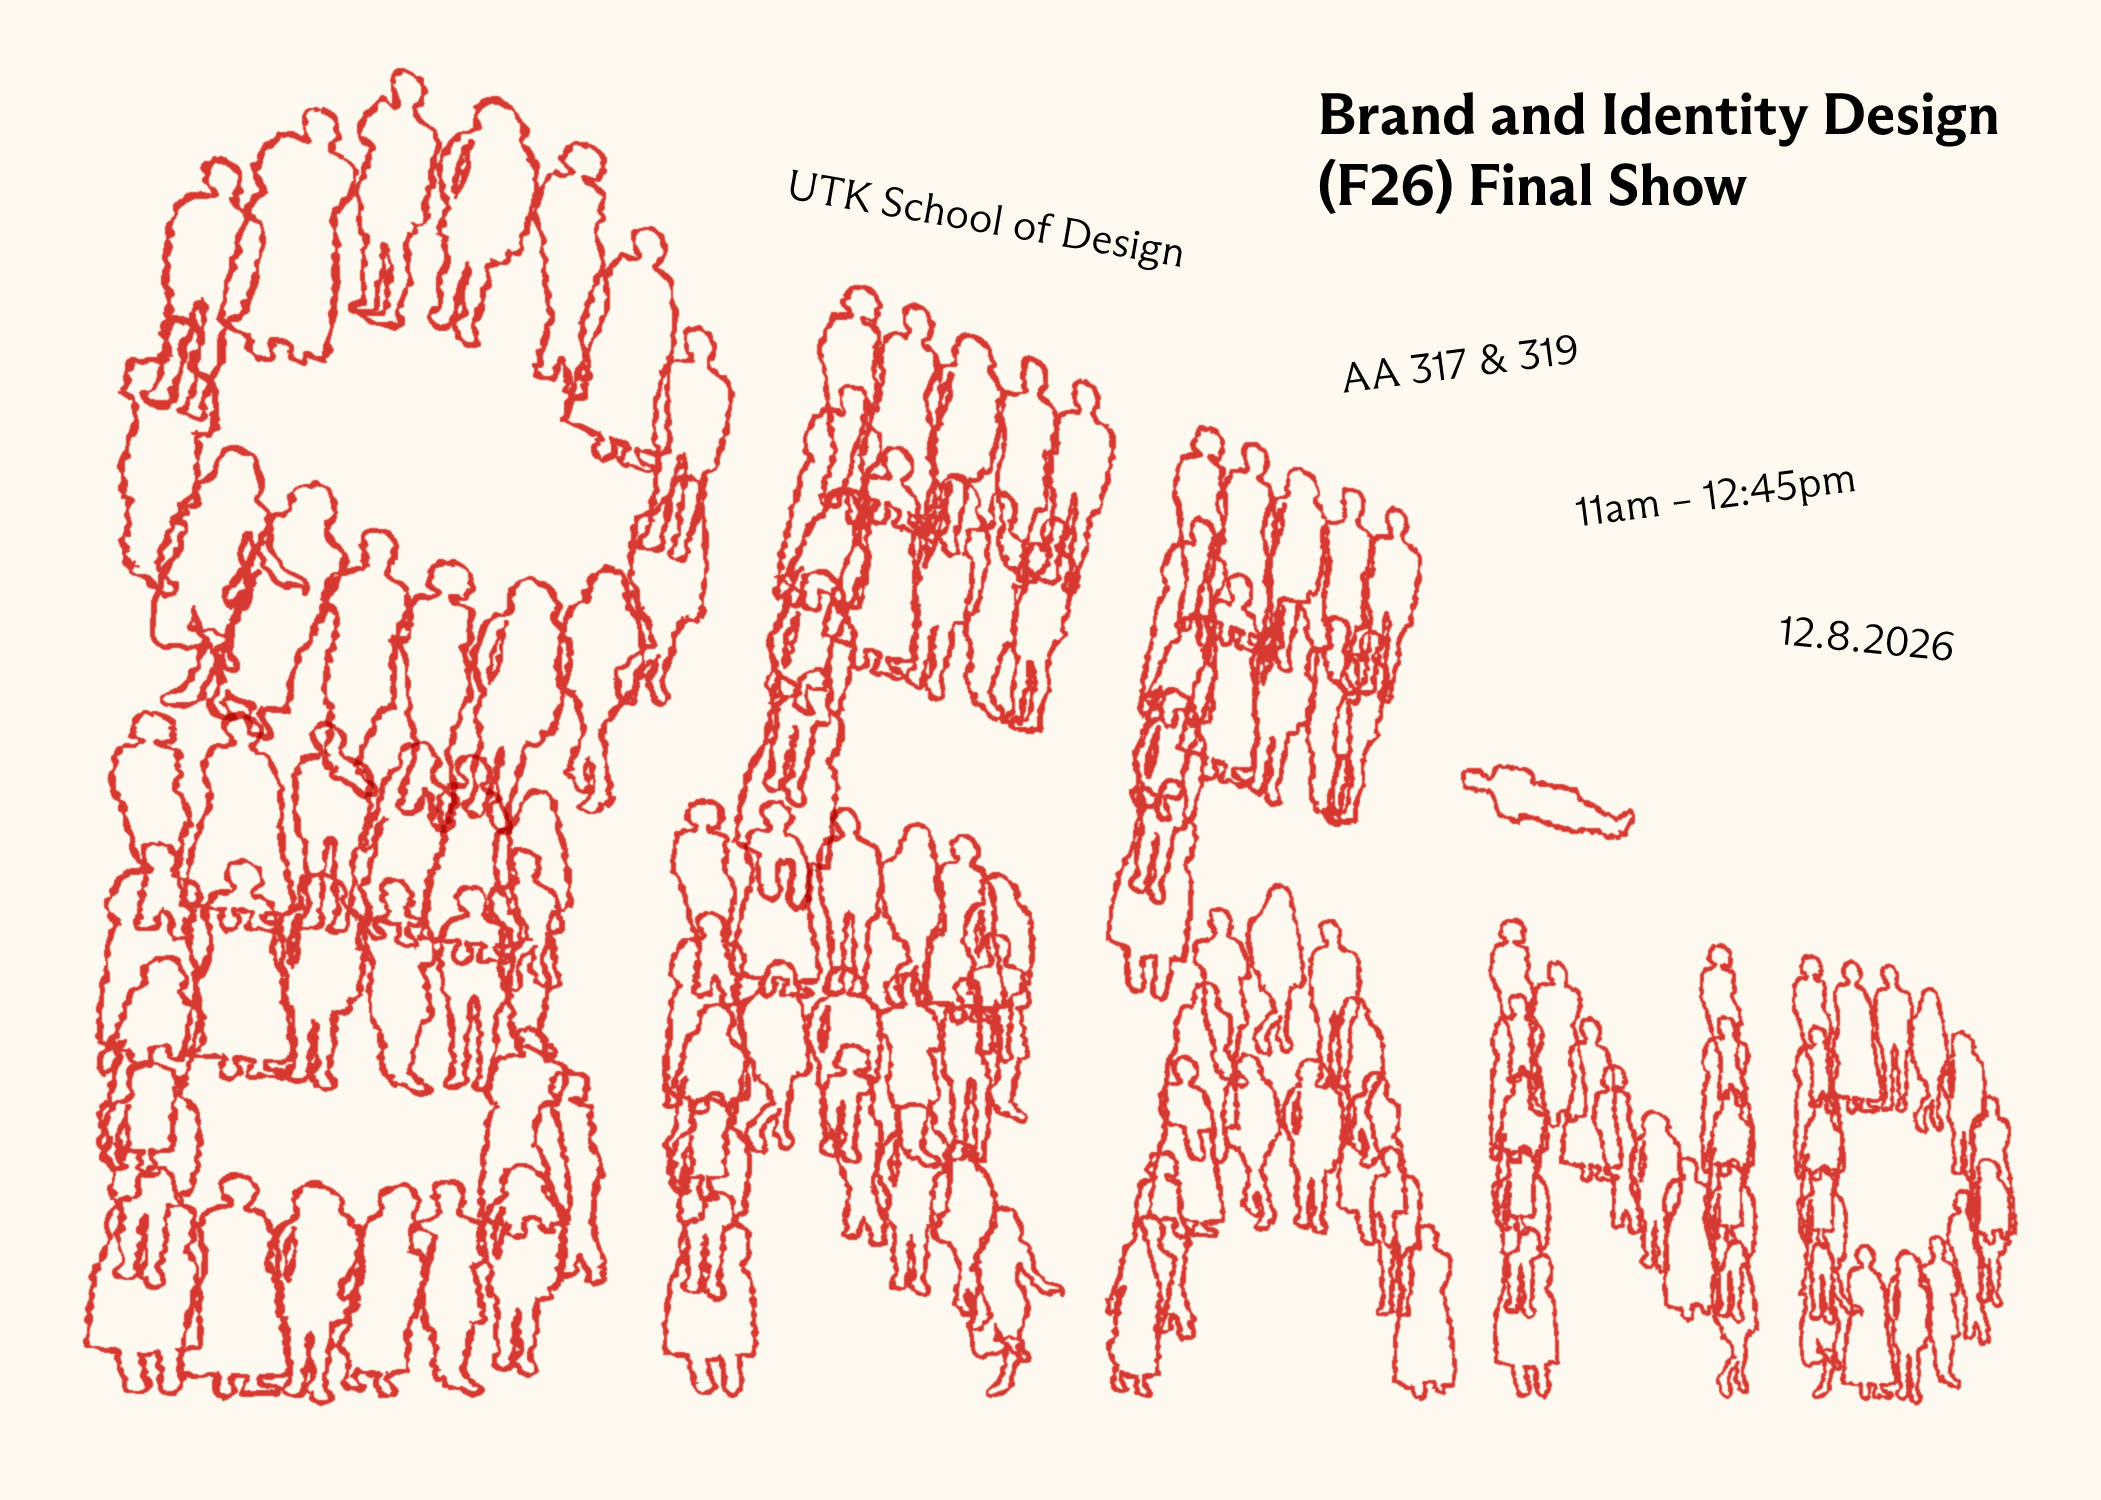
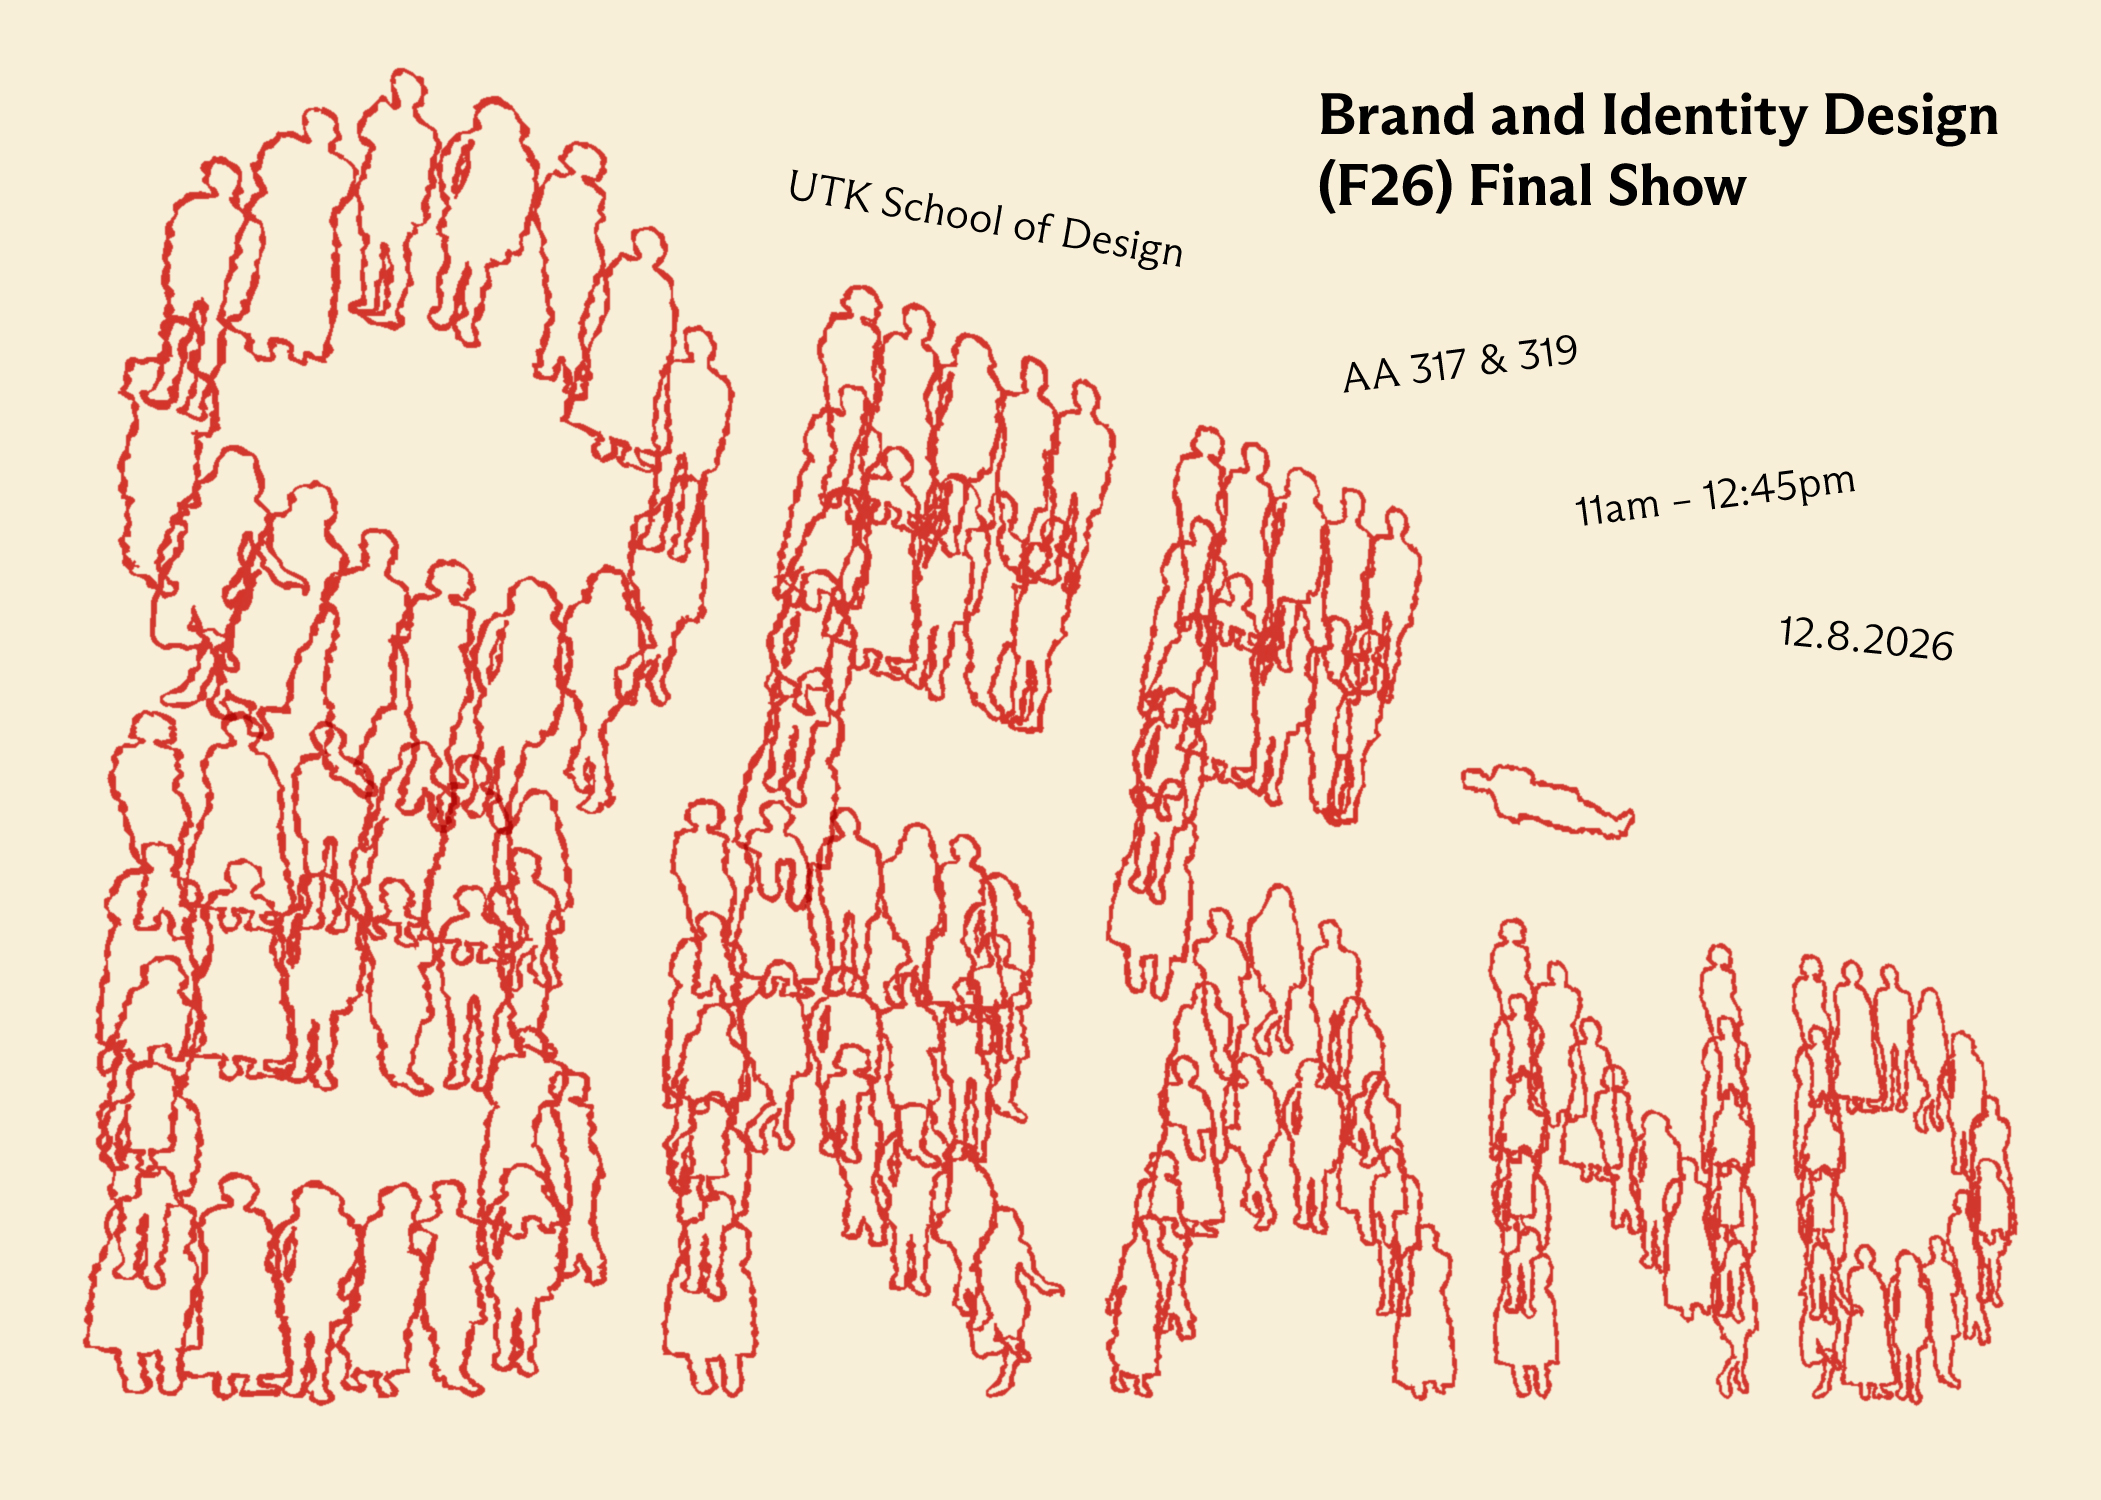
.

diff --git a/index.html b/index.html
@@ -11,7 +11,7 @@
   *, *::before, *::after { box-sizing: border-box; }
   html, body { margin: 0; padding: 0; }
   body {
-    background: #fdf9ef;
+    background: #f8efd8;
     min-height: 100vh;
     min-height: 100svh;
     display: flex;
@@ -26,8 +26,7 @@
      that the two stacked images overflow the screen height. */
   .stack {
     --ratio: 1.3997;
-    width: min(100%, calc((100vh - 32px) * var(--ratio) / 2), 1200px);
-    width: min(100%, calc((100svh - 32px) * var(--ratio) / 2), 1200px);
+    width: min(100%, 1600px);   /* fill the screen width; page scrolls */
     display: flex;
     flex-direction: column;
   }
